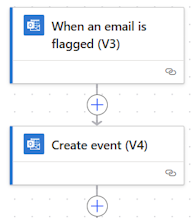
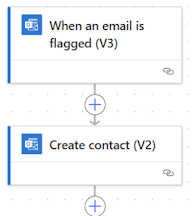
edit screenshots

diff --git a/articles/email-overview.md b/articles/email-overview.md
@@ -26,25 +26,27 @@ If you're using a work or school email account, use the Office 365 Outlook conne
 
 A *trigger* is an event that starts a cloud flow. For example, **When an email is flagged (V3)** is a trigger.
 
-Use the **Search** field to find triggers by entering keywords. For example, if you want to find triggers related to email, type **email** in the search box.
-
-Tutorials for how to use triggers in your cloud flows are available in [Trigger a cloud flow based on email properties](./email-triggers.md).
+Use the **Search** field to find triggers by entering keywords. For example, if you want to find triggers related to Outlook, type **outlook** in the search box.
 
 :::image type="content" source="./media/email/email-triggers.png" alt-text="Screenshot of a list of Office 365 Outlook triggers.":::
+
+
+Tutorials for how to use triggers in your cloud flows are available in [Trigger a cloud flow based on email properties](./email-triggers.md).
 
 Get the full list of triggers you can use in your cloud flows in [Office 365 Outlook triggers](/connectors/office365/#triggers).
 
 ## Find Outlook actions
 
-*Actions* are the events you want the flow to do after the trigger event takes place. An example of an action for the **When an email is flagged (V3)** trigger is **Create event (V4)**.
+*Actions* are the events you want the flow to do after the trigger event takes place. An example of an action for the **When an email is flagged (V3)** trigger is **Create contact (V2)**.
 
 :::image type="content" source="./media/email/trigger-action.png" alt-text="Screenshot of a trigger and an action in a cloud flow.":::
 
-You can use the **Search** field to find actions by entering keywords. For example, if you want to find actions related to calendar, type **calendar** in the search box.
-
-Tutorials for how to use actions in your cloud flows are available in [Create flows for popular email scenarios](email-top-scenarios.md) and [Customize email in flows](./email-customization.md).
+You can use the **Search** field to find actions by entering keywords. For example, if you want to find actions related to Outlook, type **outlook** in the search box.
 
 :::image type="content" source="./media/email/email-actions.png" alt-text="Screenshot of a list of Office 365 Outlook actions.":::
+
+
+Tutorials for how to use actions in your cloud flows are available in [Create flows for popular email scenarios](email-top-scenarios.md) and [Customize email in flows](./email-customization.md).
 
 Get the full list of actions you can use in your cloud flows in [Office 365 Outlook actions](/connectors/office365/#actions).
 
